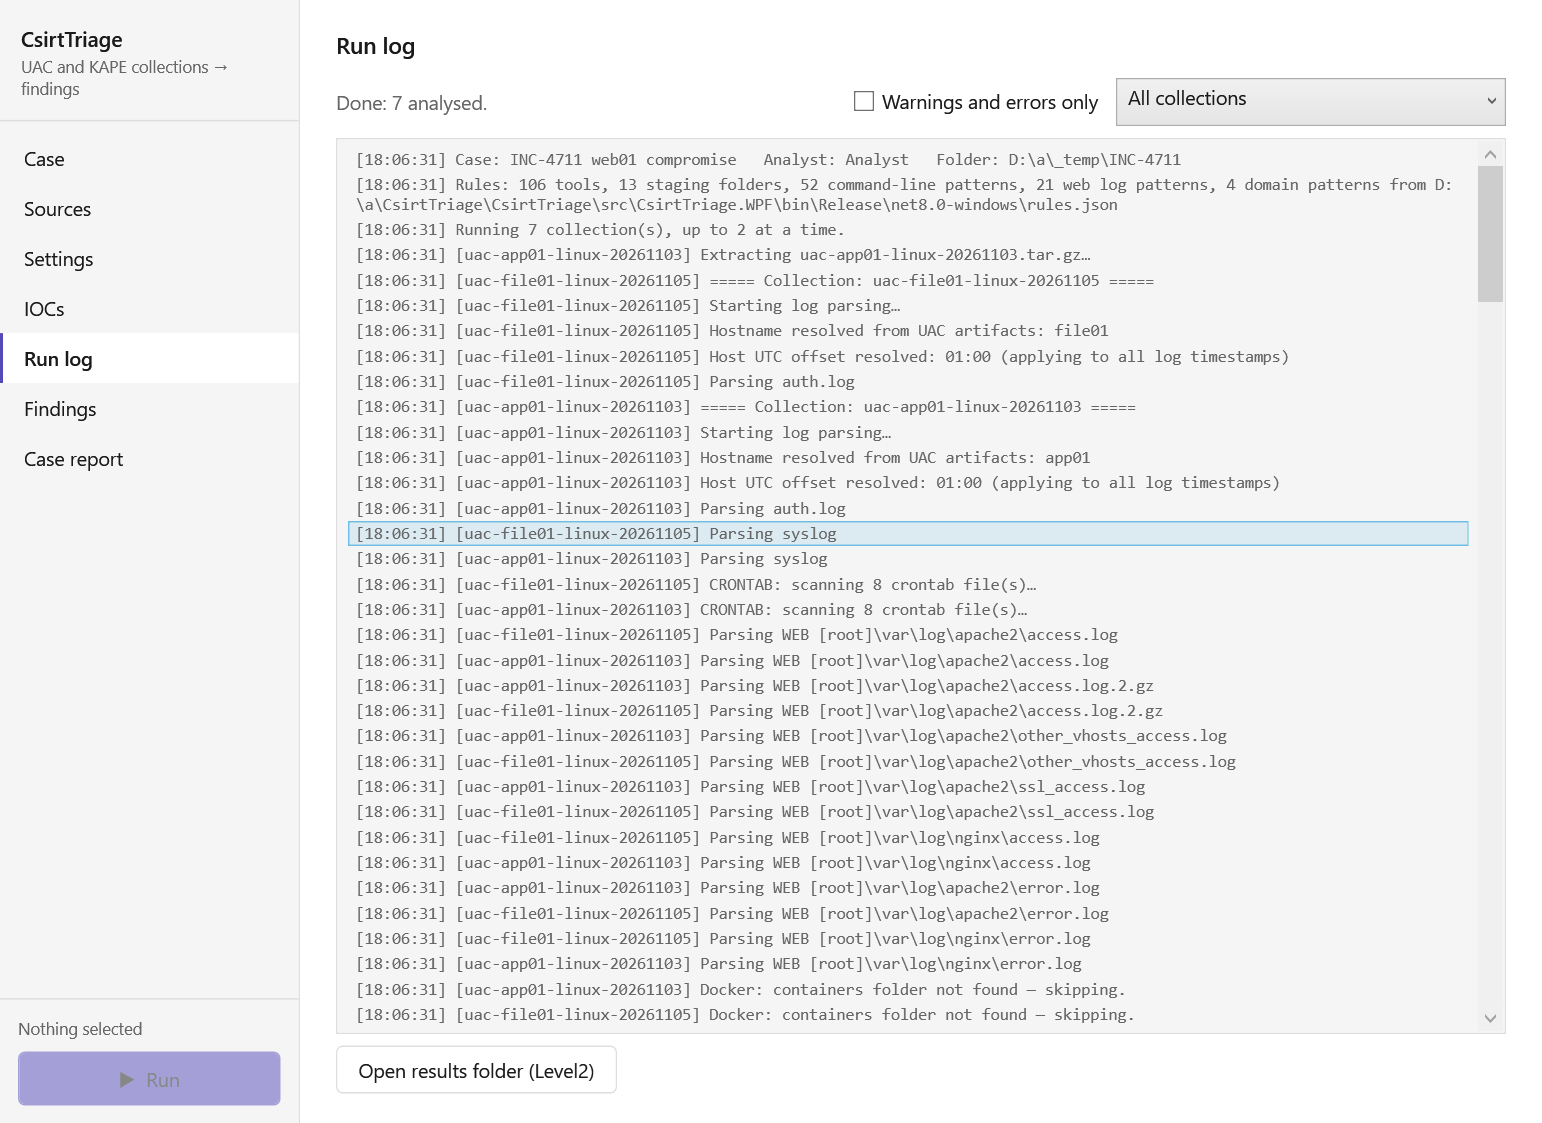
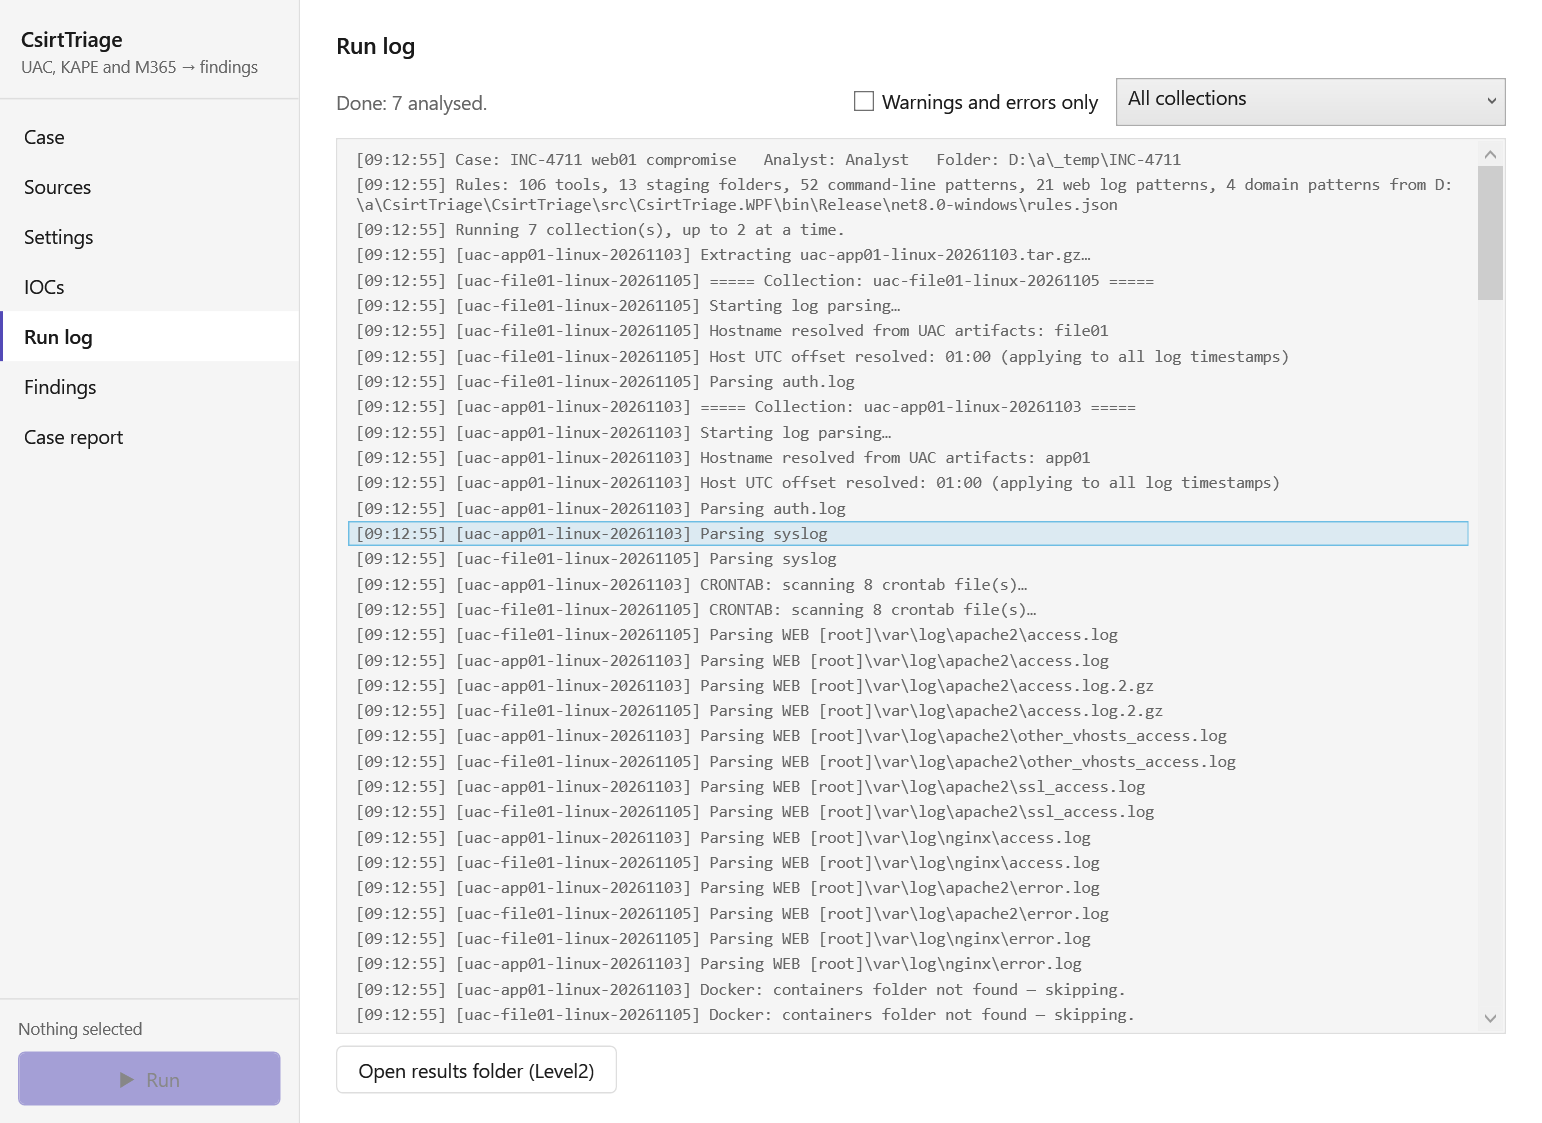
README and docs/M365.md: screenshot of the Microsoft 365 sources
Claude-Session: https://claude.ai/code/session_01HQiAQED6wUpS1f69bpSyac

diff --git a/README.md b/README.md
@@ -13,8 +13,8 @@ It replaces [CsirtParser.WPF](https://github.com/JuggeM/CsirtParser.WPF) (UAC) a
 | ![Every UAC parser and KAPE module, grouped, with what each one detects](docs/sources.png) | ![All collections' findings in one grid, filtered by severity, host and source](docs/findings.png) |
 | **Run log** | **Case report** |
 | ![Parallel run, every line names its collection](docs/run-log.png) | ![Case report across Linux and Windows hosts, likelihood per finding](docs/case-report.png) |
-| **Case IOCs** | |
-| ![One IOC list for the whole case, defanged values fixed, type detected](docs/iocs.png) | |
+| **Case IOCs** | **Microsoft 365 sources** |
+| ![One IOC list for the whole case, defanged values fixed, type detected](docs/iocs.png) | ![Microsoft 365 sources: unified audit log and Entra ID sign-in logs](docs/sources-m365.png) |
 
 Screenshots use the synthetic test cases from `tools\` (all IPs from documentation ranges) and are taken by the Screenshots workflow whenever the app's UI changes; the newest are on the [`screenshots`](https://github.com/JuggeM/CsirtTriage/tree/screenshots/docs) branch.
 

diff --git a/docs/M365.md b/docs/M365.md
@@ -64,6 +64,8 @@ The case IOC list is searched in both normalised files.
 
 ## What the parser looks for
 
+![The Microsoft 365 sources in CsirtTriage: unified audit log and Entra ID sign-in logs, each can be switched off](sources-m365.png)
+
 Severities follow the rest of CsirtTriage: **CRITICAL** (act now), **HIGH** (very likely malicious), **MEDIUM** (check it), **SUSPICIOUS** (worth knowing about). Thresholds are set in **Settings → Microsoft 365 detection**, and patterns in the `m365` section of `rules.json`.
 
 ### Sign-ins in the audit log (`M365-SIGNIN`)
